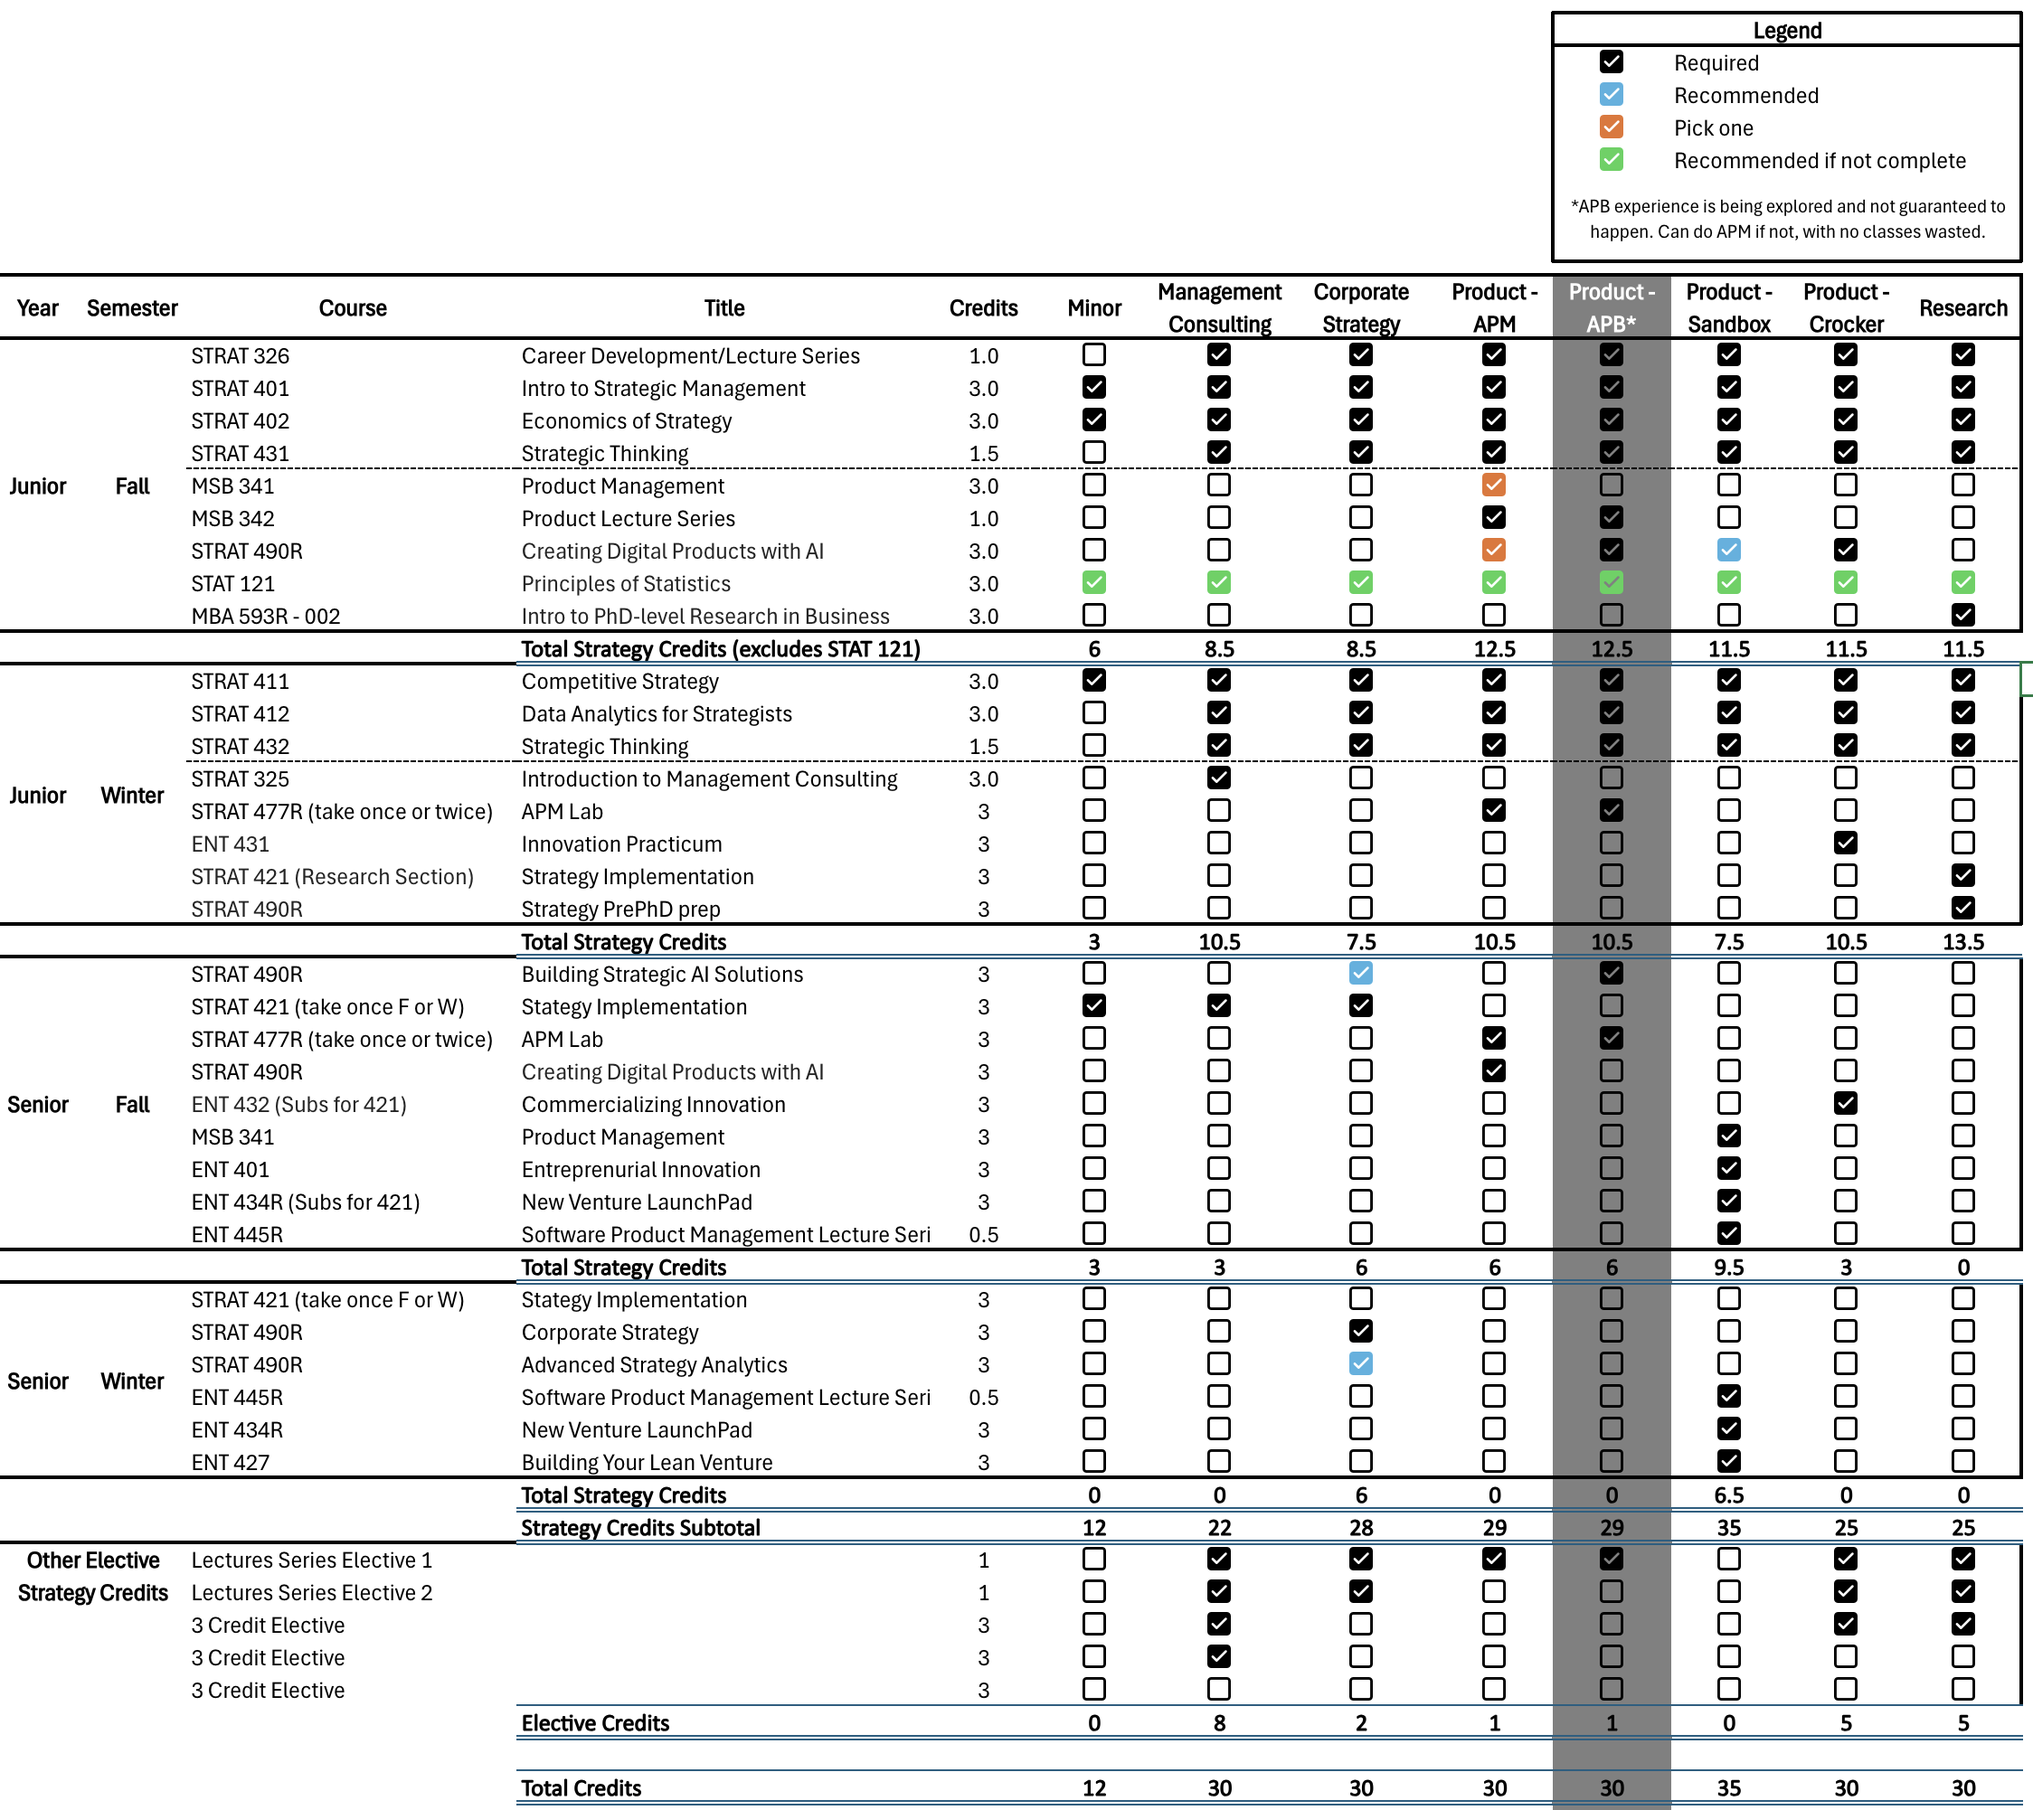
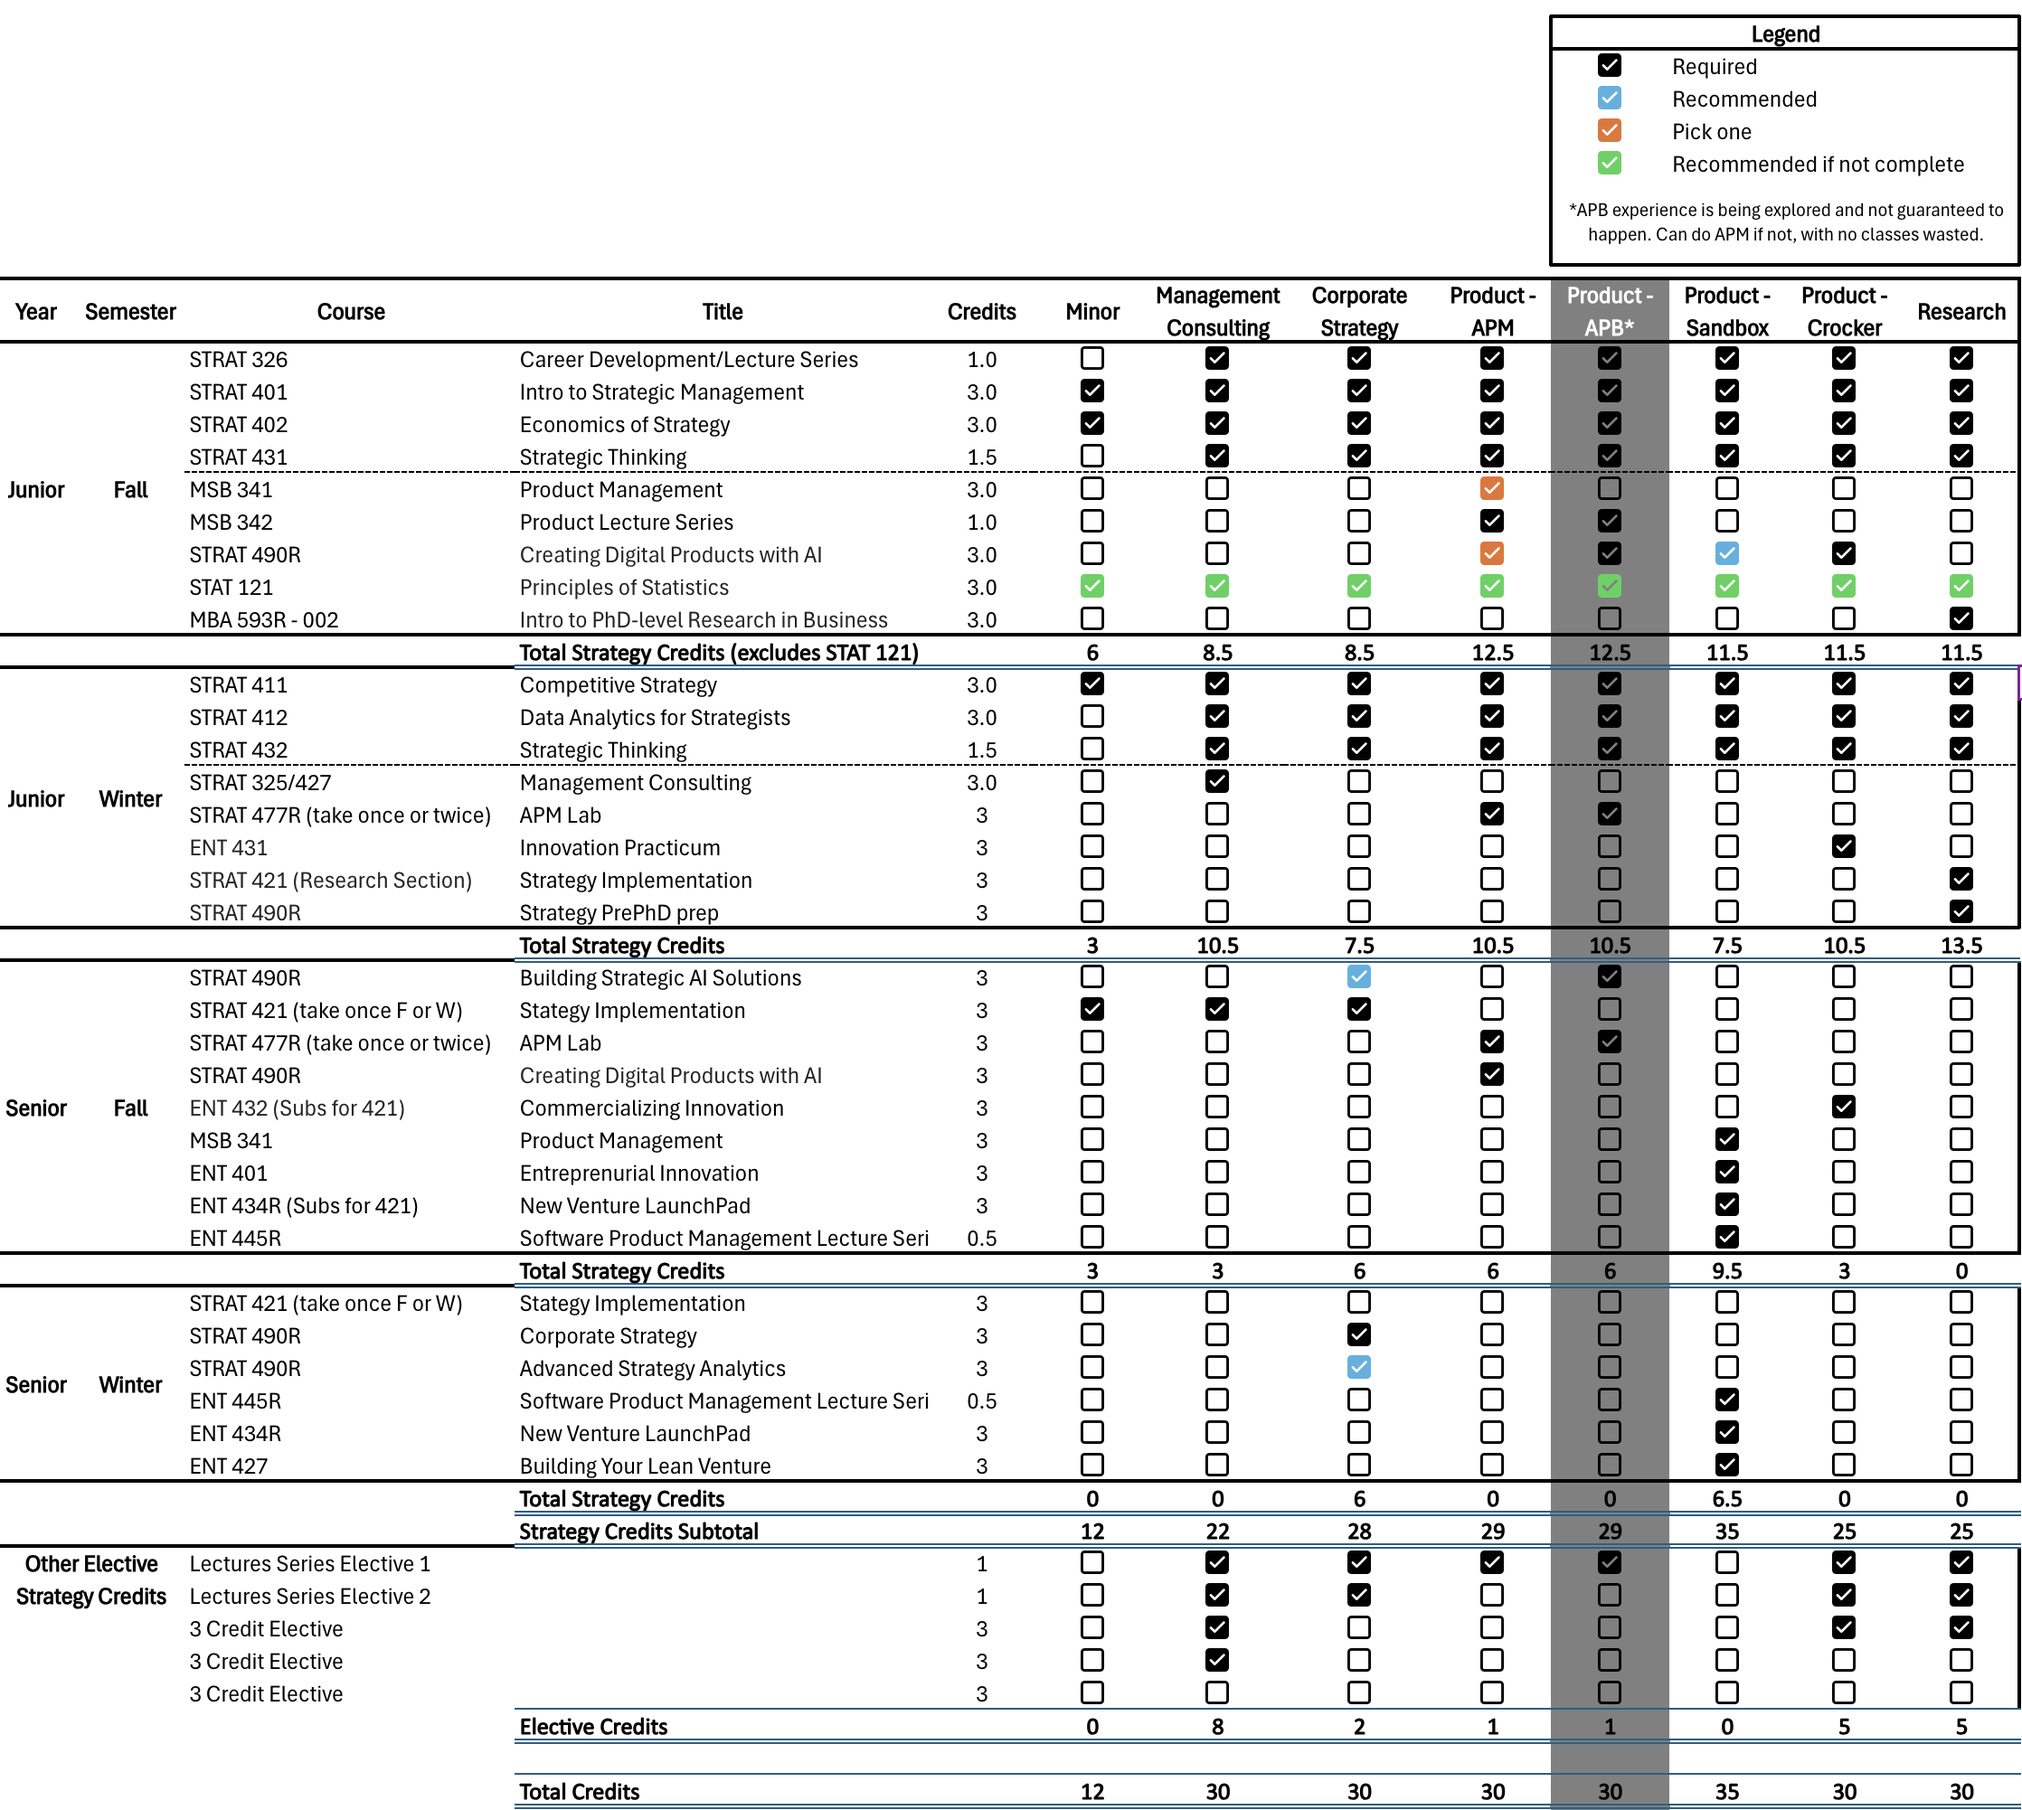
update apb

diff --git a/docs/02-tracks.html b/docs/02-tracks.html
@@ -194,9 +194,9 @@ ul.task-list li input[type="checkbox"] {
   <li><a href="#product" id="toc-product" class="nav-link" data-scroll-target="#product">Product</a>
   <ul class="collapse">
   <li><a href="#associate-product-manager-apm-internship" id="toc-associate-product-manager-apm-internship" class="nav-link" data-scroll-target="#associate-product-manager-apm-internship">Associate Product Manager (APM) Internship</a></li>
-  <li><a href="#associate-product-builder-apb-fellowship-tentatively-offered-starting-winter-2026-details-subject-to-change" id="toc-associate-product-builder-apb-fellowship-tentatively-offered-starting-winter-2026-details-subject-to-change" class="nav-link" data-scroll-target="#associate-product-builder-apb-fellowship-tentatively-offered-starting-winter-2026-details-subject-to-change">Associate Product Builder (APB) Fellowship (tentatively offered starting Winter 2026; details subject to change)</a></li>
+  <li><a href="#associate-product-builder-apb-fellowship" id="toc-associate-product-builder-apb-fellowship" class="nav-link" data-scroll-target="#associate-product-builder-apb-fellowship">Associate Product Builder (APB) Fellowship*</a></li>
   <li><a href="#sandbox" id="toc-sandbox" class="nav-link" data-scroll-target="#sandbox">Sandbox</a></li>
-  <li><a href="#crocker-innovation-fellowship-6.0-credits" id="toc-crocker-innovation-fellowship-6.0-credits" class="nav-link" data-scroll-target="#crocker-innovation-fellowship-6.0-credits">Crocker Innovation Fellowship (6.0 credits)</a></li>
+  <li><a href="#crocker-innovation-fellowship" id="toc-crocker-innovation-fellowship" class="nav-link" data-scroll-target="#crocker-innovation-fellowship">Crocker Innovation Fellowship</a></li>
   </ul></li>
   <li><a href="#research" id="toc-research" class="nav-link" data-scroll-target="#research">Research</a></li>
   </ul>
@@ -237,7 +237,7 @@ ul.task-list li input[type="checkbox"] {
 <p>Despite the disruption AI is causing throughout the economy and the impact of DOGE (see <a href="https://managementconsulted.com/podcast/doge-federal-consulting-spend/"><strong>here</strong></a> and <a href="https://www.sourceglobalresearch.com/blog-post/the-impact-of-doge-on-the-global-consulting-industry"><strong>here</strong></a>), demand for management consultants remains high with estimated revenues of ~$400BN annually in the US. In fact, the AI disruption presents new opportunities for management consultants to add value to organizations addressing the effects of AI on their workforce and on their business.</p>
 <p>McKinsey, Bain, and BCG (MBB) are the best known global consulting firms, however there is a long list of other excellent firms that you should consider. Because of the notoriety of the MBB firms, they receive an exceptionally high volume of applications, generally only hiring <a href="https://casecoach.com/b/how-selective-are-bain-bcg-and-mckinsey-through-the-application-process/">1% of applicants</a>.</p>
 <p>When firms are only hiring one percent of applicants, it becomes somewhat of a game of chance and the differentiation between great applicants is hard to discern. Hence, you should absolutely throw your hat in the ring for MBB firms, but also don’t get your heart too set and cast a wider net with other excellent even if lesser known firms.</p>
-<p>A complete list of leading consulting firms can be found <strong><a href="https://www.forbes.com/lists/best-management-consulting-firms/">here</a>.</strong></p>
+<p>A complete list of leading consulting firms can be found <a href="https://www.forbes.com/lists/best-management-consulting-firms/"><strong>here</strong></a><strong>.</strong></p>
 <p><a href="https://www.linkedin.com/jobs/search/?currentJobId=4219660438&amp;f_C=5210%2C5509%2C1038%2C224605%2C1784%2C2114%2C1371&amp;f_E=1%2C2&amp;f_F=cnsl&amp;keywords=consultant&amp;origin=JOB_SEARCH_PAGE_JOB_FILTER&amp;refresh=true&amp;sortBy=R">See Example Job Descriptions</a></p>
 </section>
 <section id="corporate-strategy" class="level2 unnumbered">
@@ -280,8 +280,8 @@ ul.task-list li input[type="checkbox"] {
 </figure>
 </div>
 </section>
-<section id="associate-product-builder-apb-fellowship-tentatively-offered-starting-winter-2026-details-subject-to-change" class="level3 unnumbered">
-<h3 class="unnumbered anchored" data-anchor-id="associate-product-builder-apb-fellowship-tentatively-offered-starting-winter-2026-details-subject-to-change">Associate Product Builder (APB) Fellowship (tentatively offered starting Winter 2026; details subject to change)</h3>
+<section id="associate-product-builder-apb-fellowship" class="level3 unnumbered">
+<h3 class="unnumbered anchored" data-anchor-id="associate-product-builder-apb-fellowship">Associate Product Builder (APB) Fellowship*</h3>
 <p>The Associate Product Builder (APB) Fellowship is a 12-month experiential learning experience where students build and deliver to market a pre-validated product concept from the Strategy Foundry and seek to earn real revenue, starting Winter of their junior year. The experience is partly modeled after LinkedIn’s first-ever <a href="https://careers.linkedin.com/pathways-programs/entry-level/apb">Associate Product Builder (APB) program</a>.</p>
 <p>“We are entering a new era of building. And the full-stack builder archetype is arising with it. A full-stack builder is capable of developing experiences, combining skills &amp; expertise, across traditionally distinct domains (e.g.&nbsp;design, product management, technology, business strategy).”</p>
 <p>Tomer Cohen, Chief Product Officer at LinkedIn</p>
@@ -297,6 +297,8 @@ ul.task-list li input[type="checkbox"] {
 <li>STRAT 490R - Creating Digital Products with AI: Strategy &amp; Prototyping</li>
 <li>MSB 342: Product Management Lecture Series (1.0 credit)</li>
 </ul>
+<p><strong>*The APB experience is being explored and is not guaranteed to happen. Student may do the APM experience if not, with no classes wasted.</strong></p>
+<p><a href="https://docs.google.com/forms/d/e/1FAIpQLSeIuWTANS1VbF4ORhfvfz9rXDGjzhwe7P-yjXvpsZGwNdrrMQ/viewform?usp=sharing&amp;ouid=102863173559950072505"><strong>Register your interest here</strong></a> to stay informed on the APB opportunity.</p>
 </section>
 <section id="sandbox" class="level3 unnumbered">
 <h3 class="unnumbered anchored" data-anchor-id="sandbox">Sandbox</h3>
@@ -306,8 +308,8 @@ ul.task-list li input[type="checkbox"] {
 <p><a href="https://www.linkedin.com/company/sandboxeducation/posts/?feedView=all">Follow on LinkedIn</a></p>
 <p>There are no formal pre-reqs.</p>
 </section>
-<section id="crocker-innovation-fellowship-6.0-credits" class="level3 unnumbered">
-<h3 class="unnumbered anchored" data-anchor-id="crocker-innovation-fellowship-6.0-credits">Crocker Innovation Fellowship (6.0 credits)</h3>
+<section id="crocker-innovation-fellowship" class="level3 unnumbered">
+<h3 class="unnumbered anchored" data-anchor-id="crocker-innovation-fellowship">Crocker Innovation Fellowship</h3>
 <p>The <a href="https://crockerinnovationfellows.com/">Crocker Innovation Fellowship</a> is an interdisciplinary innovation program that runs from January to December each year. Students study and practice principles of innovation in Winter semester, learn through a summer internship, and then study and practice principles of innovation commercialization in the Fall semester. Interested students from all majors are encouraged to apply.</p>
 <p>Applications for the 2026 class will open Fall 2025.</p>
 <p>Email crockerfellows@gmail.com with any questions.</p>
